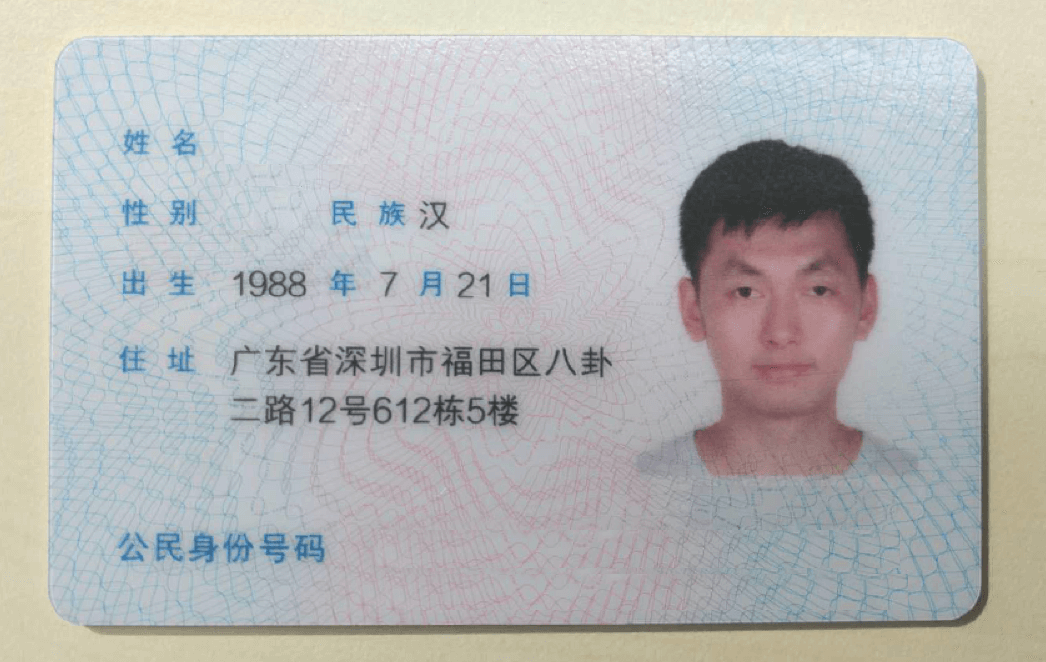
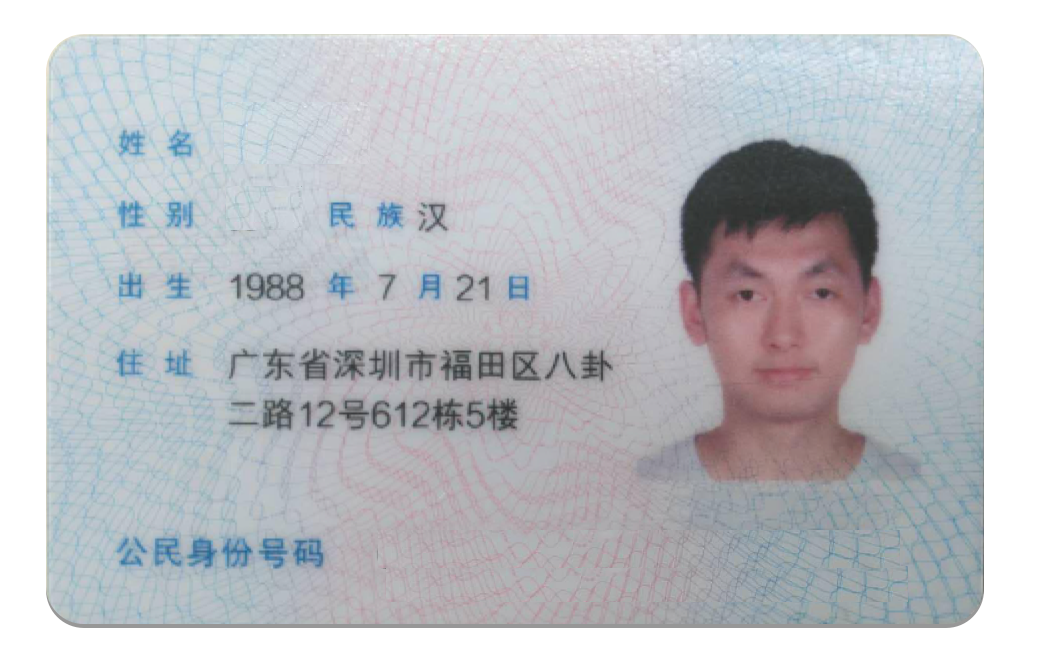
身份证生成器
身份证生成器

diff --git a/index.html b/index.html
@@ -6,8 +6,10 @@
     <meta name="apple-mobile-web-app-status-bar-style" content="white">
     <meta name="viewport"
           content="width=device-width, initial-scale=1, minimum-scale=1.0, maximum-scale=1.0, user-scalable=no">
+    <title>身份证生成器</title>
 
-    <style type="text/css">
+
+        <style type="text/css">
         @font-face {
             font-family: 'SFZ'; /字体名称/
 
@@ -19,15 +21,22 @@
         }
 
         @font-face {
-            font-family: 'name'; /字体名称/
+            font-family:'name'; /字体名称/
 
         url('SourceHan.otf');
         src: url('SourceHan.otf');
         }
         .fontclass2 {
-            font-family:  'name';
+            font-family:'name';
         }
+
+        .center{
+
+            text-align:center;
+        }
+
     </style>
+
     <script >
         function setVale()
         {
@@ -43,32 +52,65 @@
             var idInput = document.getElementById("id-input");
             id.innerHTML =idInput.value ;
         }
-
-
     </script>
 </head>
+
+
+
+
+
+
+
+
 <body>
 
-<div style="position: relative; color:#575757 ">
+姓&ensp;&ensp;&ensp;&nbsp;名:
+<input style="width: 280px;
+    height: 38px;
+    border-radius: 10px; /*圆角矩形*/
+    text-indent: 10px; /*里面隐形的字体首行缩进*/
+    margin: 5px auto;" type="text" id="name-input" name="name" value="" />
+<br>
+
+性&ensp;&ensp;&ensp;&nbsp;别:
+<input style="width: 280px;
+    height: 38px;
+    border-radius: 10px; /*圆角矩形*/
+    text-indent: 10px; /*里面隐形的字体首行缩进*/
+    margin: 5px auto;" type="text" id="sex-input" name="sex" value="" />
+<br>
+
+
+身份号码:
+<input style="width: 280px;
+    height: 38px;
+    border-radius: 10px; /*圆角矩形*/
+    text-indent: 10px; /*里面隐形的字体首行缩进*/
+    margin: 5px auto;" type="text" id="id-input" name="id" value="" />
+<br>
+
+<span style=margin:70px >
+<button style="width: 280px;
+    height: 38px;
+    border-radius: 10px; /*圆角矩形*/
+    text-indent: 10px; /*里面隐形的字体首行缩进*/
+    margin: 5px auto;background-color:#4C86FA;color:#FFFFFF" onclick="setVale()" value="生成" >生成</button>
+    </span>
+<br>
+<br>
+
+<div class="center" style=" position: relative; color:#575757">
     <img src="sfz.png" alt="身份证图片"/>
-    <div class="fontclass2"><span id="name" style="position: absolute;font-size: 33px;letter-spacing: 0px;top: 115;left: 235; ">幸盈颖</span></div>
-    <div class="fontclass2"><span id="sex" style="position: absolute;font-size: 30px;top: 190;left: 235;"  >女</span></div>
-    <div><span style="position: absolute;font-size: 30px; top: 268; left: 235;"><p hidden="hidden">1994</p></span></div>
-    <div><span style="position: absolute;font-size: 30px; top: 344; left: 235;"><p hidden="hidden">广东省 深圳市 南山区</p></span></div>
-    <div class="fontclass"><span id="id" style="    position: absolute;font-size: 45px;top: 533;left: 370;color: #575757;">51142319780511382X</span>
+    <div class="fontclass2"><span id="name" style="white-space:nowrap;position: relative;font-size: 33px;letter-spacing:0;top: -545px;left: -245px; ">汤婷秀</span></div>
+    <div class="fontclass2"><span id="sex" style="position: relative;font-size: 30px;top:-520px;left: -275px;"  >女</span></div>
+    <div><span style="position: absolute;font-size: 30px; top: 268px; left: 235px;"><p hidden="hidden">1994</p></span></div>
+    <div><span style="position: absolute;font-size: 30px; top: 344px; left: 235px;"><p hidden="hidden">广东省 深圳市 南山区</p></span></div>
+    <div class="fontclass"><span id="id" style="position: relative;font-size: 45px;top: -225px;left:  90px;color: #575757;">130531198302111820</span>
     </div>
 </div>
 
-    姓名:
-    <input type="text" id="name-input" name="name" value="" />
-    <br>
-    性别:
-    <input type="text" id="sex-input" name="sex" value="" />
-    <br>
-    身份证号码:
-    <input type="text" id="id-input" name="id" value="" />
-    <br>
-    <button   onclick="setVale()" value="生成" > 生成</button>
 
 </body>
+
+
 </html>
